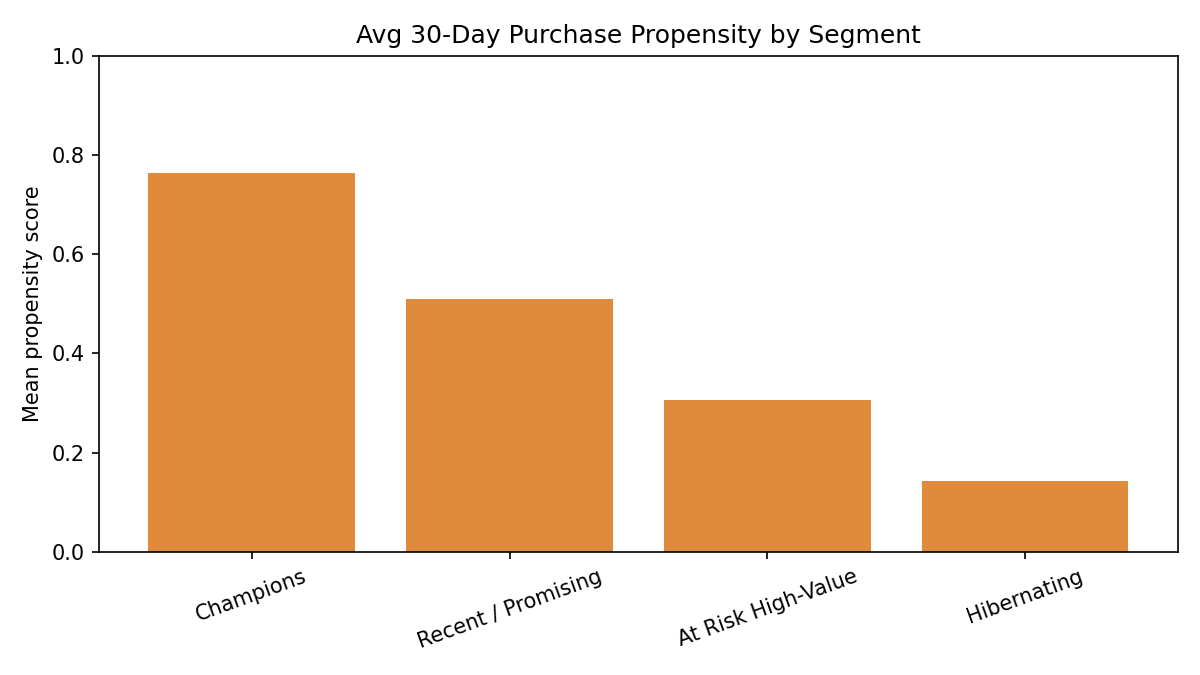
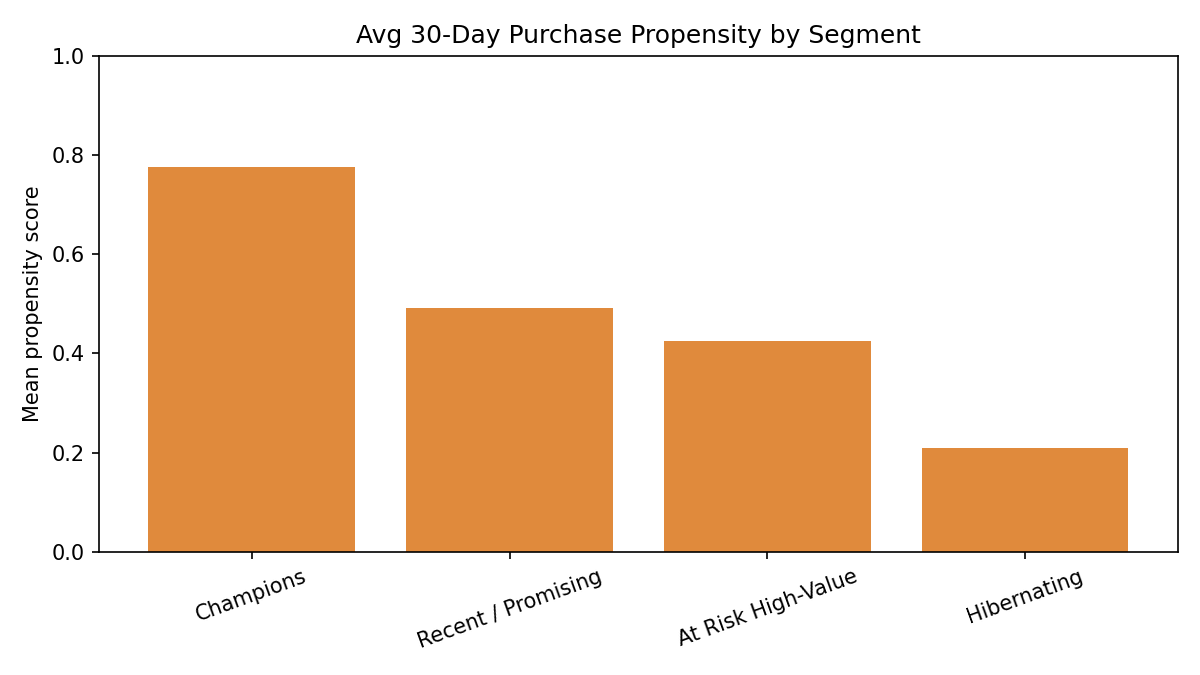
Tune propensity models via cross-validation, add gain/lift chart
RandomizedSearchCV (XGBoost, 40 draws) and GridSearchCV (logistic, C)
with stratified 5-fold CV. Resolves a real anomaly: untuned XGBoost
(0.762 test AUC) underperformed logistic regression (0.781) because it
was overfitting (max_depth=4, no regularization) on this dataset size.
Tuned XGBoost (max_depth=2, reg_lambda=2.0) now reaches 0.787, ahead of
tuned logistic (0.781).

Added a cumulative gain chart: top 20% of customers by propensity score
captures 47% of actual 30-day buyers (2.3x lift over random targeting).

diff --git a/src/propensity_model.py b/src/propensity_model.py
@@ -13,11 +13,16 @@ Why a separate model from churn (90-day horizon):
   purchase_regularity, recency_ratio) capture purchase rhythm and are especially
   informative at this horizon.
 
-Models: logistic regression (baseline) + XGBoost.
+Models: logistic regression (baseline) + XGBoost, both hyperparameter-tuned via
+randomized/grid search with stratified 5-fold cross-validation. Tuning matters here:
+an untuned XGBoost previously underperformed the logistic baseline (0.762 vs 0.781
+AUC), which is unusual and a sign of mistuned defaults rather than a genuine
+ranking of the two model families on this problem.
+
 Outputs:
   SQLite table  — propensity_scores (customer_id, propensity_score)
   Figures       — propensity_roc.png, propensity_feature_importance.png,
-                  propensity_by_segment.png
+                  propensity_by_segment.png, propensity_gain_chart.png
 
 Usage:
     python src/propensity_model.py
@@ -33,7 +38,7 @@ import numpy as np
 import pandas as pd
 from sklearn.linear_model import LogisticRegression
 from sklearn.metrics import classification_report, roc_auc_score, roc_curve
-from sklearn.model_selection import train_test_split
+from sklearn.model_selection import GridSearchCV, RandomizedSearchCV, StratifiedKFold, train_test_split
 from sklearn.preprocessing import StandardScaler
 from xgboost import XGBClassifier
 
@@ -131,6 +136,77 @@ def build_dataset(db_path: Path) -> pd.DataFrame:
     return feats
 
 
+def tune_logreg(X_tr_scaled: np.ndarray, y_tr: pd.Series) -> tuple[LogisticRegression, dict, float]:
+    cv = StratifiedKFold(n_splits=5, shuffle=True, random_state=42)
+    grid = GridSearchCV(
+        LogisticRegression(max_iter=1000, class_weight="balanced"),
+        param_grid={"C": [0.01, 0.05, 0.1, 0.5, 1, 5, 10]},
+        scoring="roc_auc",
+        cv=cv,
+    )
+    grid.fit(X_tr_scaled, y_tr)
+    return grid.best_estimator_, grid.best_params_, grid.best_score_
+
+
+def tune_xgboost(X_tr: pd.DataFrame, y_tr: pd.Series, spw: float) -> tuple[XGBClassifier, dict, float]:
+    cv = StratifiedKFold(n_splits=5, shuffle=True, random_state=42)
+    param_dist = {
+        "n_estimators": [100, 150, 200, 300, 400, 500],
+        "max_depth": [2, 3, 4, 5, 6],
+        "learning_rate": [0.01, 0.03, 0.05, 0.1, 0.2],
+        "subsample": [0.6, 0.7, 0.8, 0.9, 1.0],
+        "colsample_bytree": [0.6, 0.7, 0.8, 0.9, 1.0],
+        "min_child_weight": [1, 3, 5, 7, 10],
+        "gamma": [0, 0.1, 0.3, 0.5, 1.0],
+        "reg_alpha": [0, 0.1, 0.5, 1.0],
+        "reg_lambda": [0.5, 1.0, 1.5, 2.0],
+    }
+    base = XGBClassifier(eval_metric="logloss", random_state=42, scale_pos_weight=spw)
+    search = RandomizedSearchCV(
+        base, param_dist, n_iter=40, scoring="roc_auc", cv=cv, random_state=42, n_jobs=-1,
+    )
+    search.fit(X_tr, y_tr)
+    return search.best_estimator_, search.best_params_, search.best_score_
+
+
+def gain_curve(y_true: pd.Series, scores: np.ndarray) -> tuple[np.ndarray, np.ndarray]:
+    order = np.argsort(-scores)
+    y_sorted = np.asarray(y_true)[order]
+    cum_positives = np.cumsum(y_sorted)
+    total_positives = y_sorted.sum()
+    pct_population = np.arange(1, len(y_sorted) + 1) / len(y_sorted)
+    pct_captured = cum_positives / total_positives
+    return pct_population, pct_captured
+
+
+def plot_gain_chart(
+    y_te: pd.Series, xgb_prob: np.ndarray, lr_prob: np.ndarray, out_dir: Path
+) -> None:
+    fig, ax = plt.subplots(figsize=(6.5, 5))
+    for prob, name, color in [
+        (xgb_prob, "XGBoost (tuned)", BLUE),
+        (lr_prob, "Logistic Regression (tuned)", ACCENT),
+    ]:
+        pct_pop, pct_cap = gain_curve(y_te, prob)
+        ax.plot(pct_pop * 100, pct_cap * 100, color=color, label=name)
+    ax.plot([0, 100], [0, 100], "k--", alpha=0.4, label="Random targeting")
+    ax.set_xlabel("% of customers targeted (ranked by propensity score)")
+    ax.set_ylabel("% of actual 30-day buyers captured")
+    ax.set_title("Cumulative Gain Chart")
+    ax.legend(loc="lower right")
+    fig.tight_layout()
+    fig.savefig(out_dir / "propensity_gain_chart.png", dpi=150)
+    plt.close(fig)
+
+    print("\nGain / lift at key targeting thresholds (XGBoost, tuned):")
+    pct_pop, pct_cap = gain_curve(y_te, xgb_prob)
+    for pct in (0.1, 0.2, 0.3):
+        idx = int(len(y_te) * pct) - 1
+        capture = pct_cap[idx]
+        lift = capture / pct
+        print(f"  Top {int(pct * 100)}% of customers by score: captures {capture:.1%} of actual buyers ({lift:.1f}x lift over random)")
+
+
 def main(db_path: Path = DB_PATH, out_dir: Path = OUT_DIR) -> None:
     out_dir.mkdir(parents=True, exist_ok=True)
     data = build_dataset(db_path)
@@ -140,32 +216,23 @@ def main(db_path: Path = DB_PATH, out_dir: Path = OUT_DIR) -> None:
         X, y, test_size=0.2, random_state=42, stratify=y
     )
 
-    # ── logistic regression baseline ─────────────────────────────────────────
+    # ── logistic regression, tuned via 5-fold CV grid search over C ───────────
     scaler = StandardScaler().fit(X_tr)
-    lr = LogisticRegression(max_iter=1000, class_weight="balanced")
-    lr.fit(scaler.transform(X_tr), y_tr)
-    lr_prob = lr.predict_proba(scaler.transform(X_te))[:, 1]
+    X_tr_scaled, X_te_scaled = scaler.transform(X_tr), scaler.transform(X_te)
+    lr, lr_params, lr_cv_auc = tune_logreg(X_tr_scaled, y_tr)
+    lr_prob = lr.predict_proba(X_te_scaled)[:, 1]
     lr_auc = roc_auc_score(y_te, lr_prob)
 
-    # ── XGBoost ──────────────────────────────────────────────────────────────
+    # ── XGBoost, tuned via randomized search (40 draws, 5-fold CV) ────────────
     # scale_pos_weight handles class imbalance without discarding majority-class signal
     spw = (y_tr == 0).sum() / max((y_tr == 1).sum(), 1)
-    xgb = XGBClassifier(
-        n_estimators=300,
-        max_depth=4,
-        learning_rate=0.1,
-        subsample=0.9,
-        colsample_bytree=0.9,
-        scale_pos_weight=spw,
-        eval_metric="logloss",
-        random_state=42,
-    )
-    xgb.fit(X_tr, y_tr)
+    xgb, xgb_params, xgb_cv_auc = tune_xgboost(X_tr, y_tr, spw)
     xgb_prob = xgb.predict_proba(X_te)[:, 1]
     xgb_auc = roc_auc_score(y_te, xgb_prob)
 
-    print(f"\nLogistic Regression AUC: {lr_auc:.3f}")
-    print(f"XGBoost AUC:             {xgb_auc:.3f}")
+    print(f"\nLogistic Regression — best C={lr_params['C']}, CV AUC={lr_cv_auc:.3f}, test AUC={lr_auc:.3f}")
+    print(f"XGBoost — CV AUC={xgb_cv_auc:.3f}, test AUC={xgb_auc:.3f}")
+    print(f"  best params: {xgb_params}")
     print("\nXGBoost classification report (threshold 0.5):")
     print(classification_report(y_te, (xgb_prob >= 0.5).astype(int), digits=3))
 
@@ -226,7 +293,10 @@ def main(db_path: Path = DB_PATH, out_dir: Path = OUT_DIR) -> None:
     except Exception as exc:
         print(f"Skipping propensity_by_segment.png: {exc}")
 
-    print(f"Figures written to {out_dir}")
+    # ── figure 4: cumulative gain / lift chart ───────────────────────────────
+    plot_gain_chart(y_te, xgb_prob, lr_prob, out_dir)
+
+    print(f"\nFigures written to {out_dir}")
 
 
 if __name__ == "__main__":